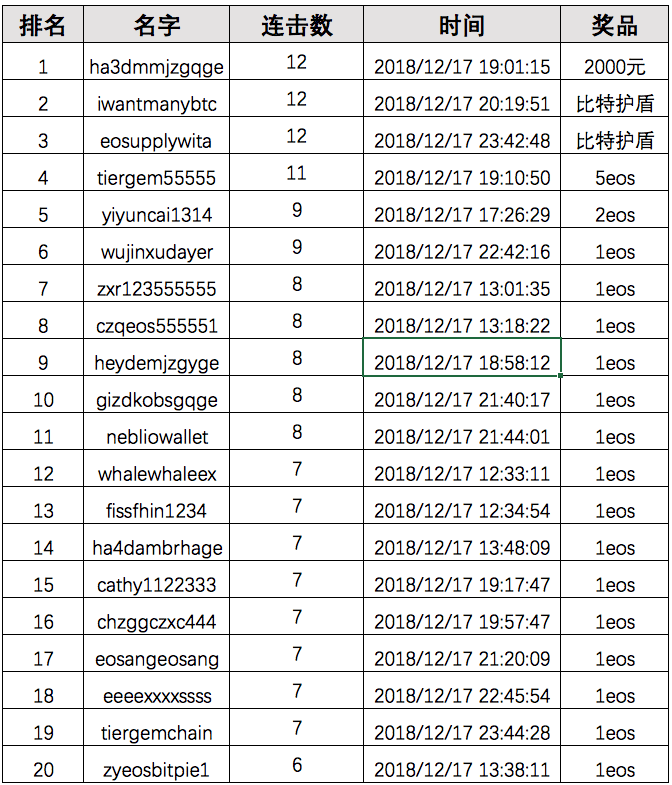
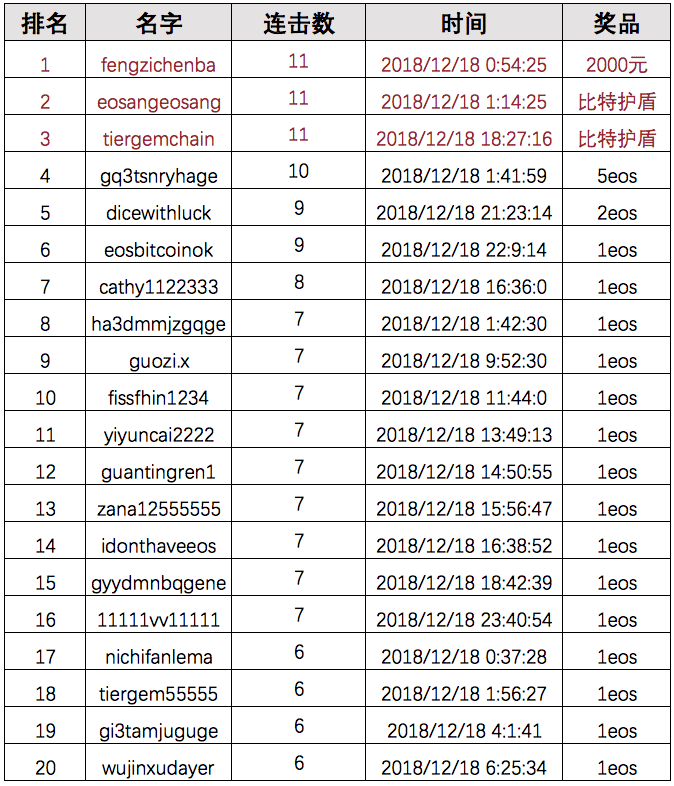
update prize

Changed region(s): [[0.0, 0.0, 1.0, 1.0]]

diff --git a/bigsmall/prize/index.html b/bigsmall/prize/index.html
@@ -62,7 +62,7 @@
 </head>
 <body>
 <div id="content">
-    <p class="h5">2018币圈复活节 12月17日</p>
+    <p class="h5">2018币圈复活节 12月18日</p>
     <p class="h5">猜大小获奖名单</p>
     <p>EBTC 区中奖名单：</p>
     <img class="imgs" src="/acimg/ebtc.png">
@@ -72,7 +72,7 @@
     <img class="imgs" src="/acimg/eusd.png">
     <p>派奖方式：</p>
     <p>1、EOS 奖品将直接把对应数量的 EOS 转账至获奖者的 EOS 账户。</p>
-    <p>2、2000元 将以等值 EUSD 的形式，EUSD 的价格取12月18日比特派 APP 一键买卖 EUSD 的买卖中间价，为：6.89 元，本次转账 EUSD 数量为 291 个。</p>
+    <p>2、2000元 将以等值 EUSD 的形式，EUSD 的价格取12月19日比特派 APP 一键买卖 EUSD 的买卖中间价，为：6.92 元，本次转账 EUSD 数量为 290 个。</p>
     <p>3、比特护盾获奖者请联系 <a href="https://weibo.com/bitpiewallet" target="_blank">@比特派钱包</a>官方微博，提供相关信息，2019年1月1日 0:00:00 前仍未于官方取得联系视为放弃奖励。</p>
 </div>
 </body>
